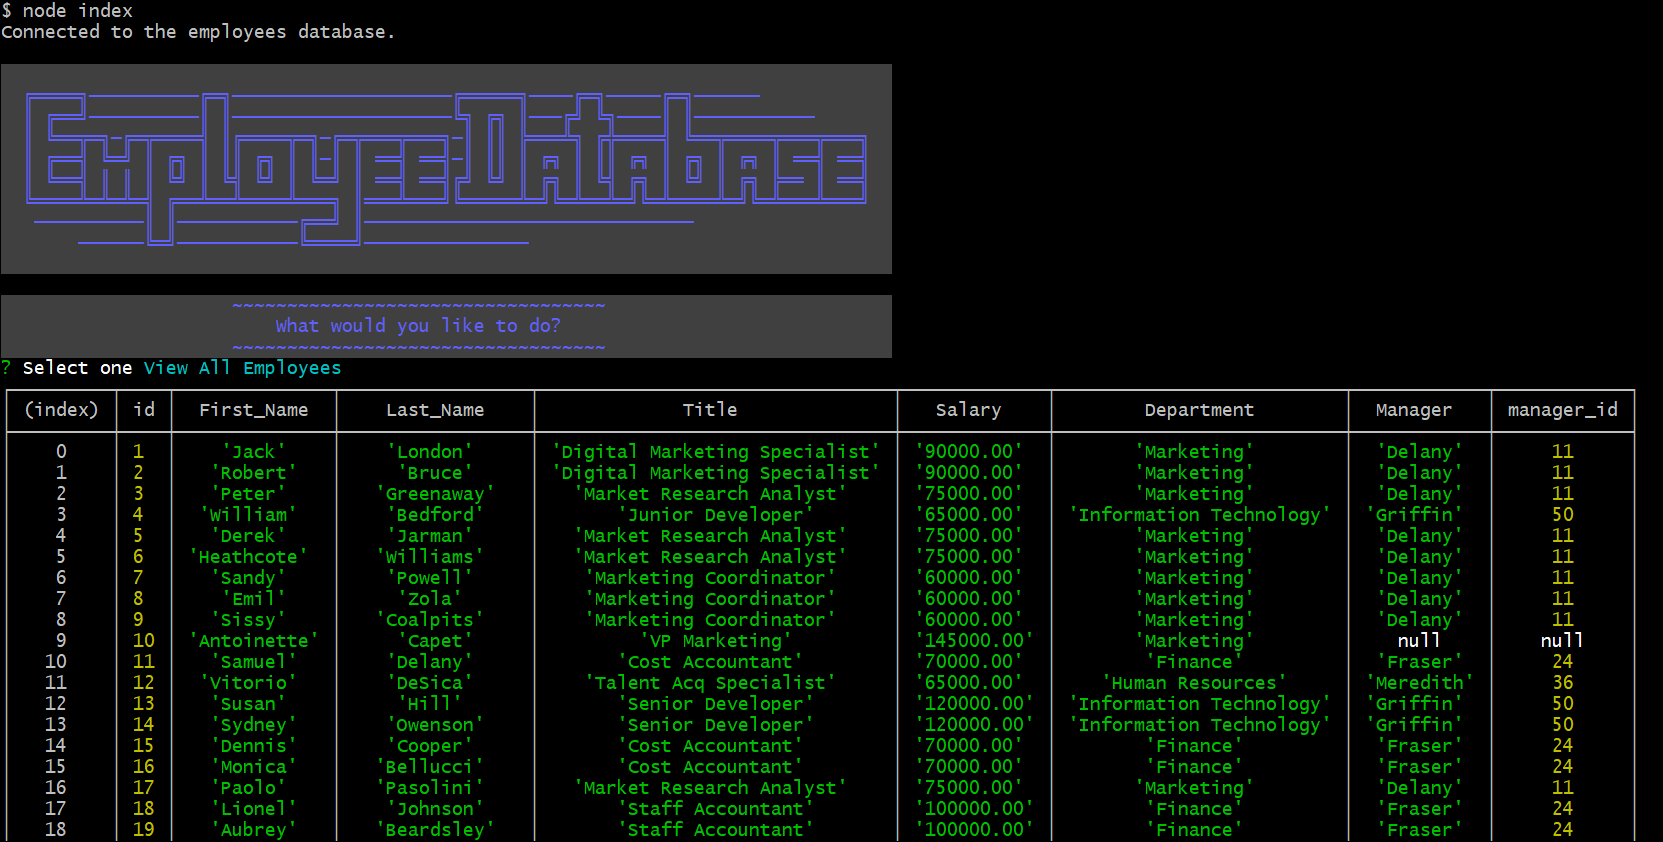
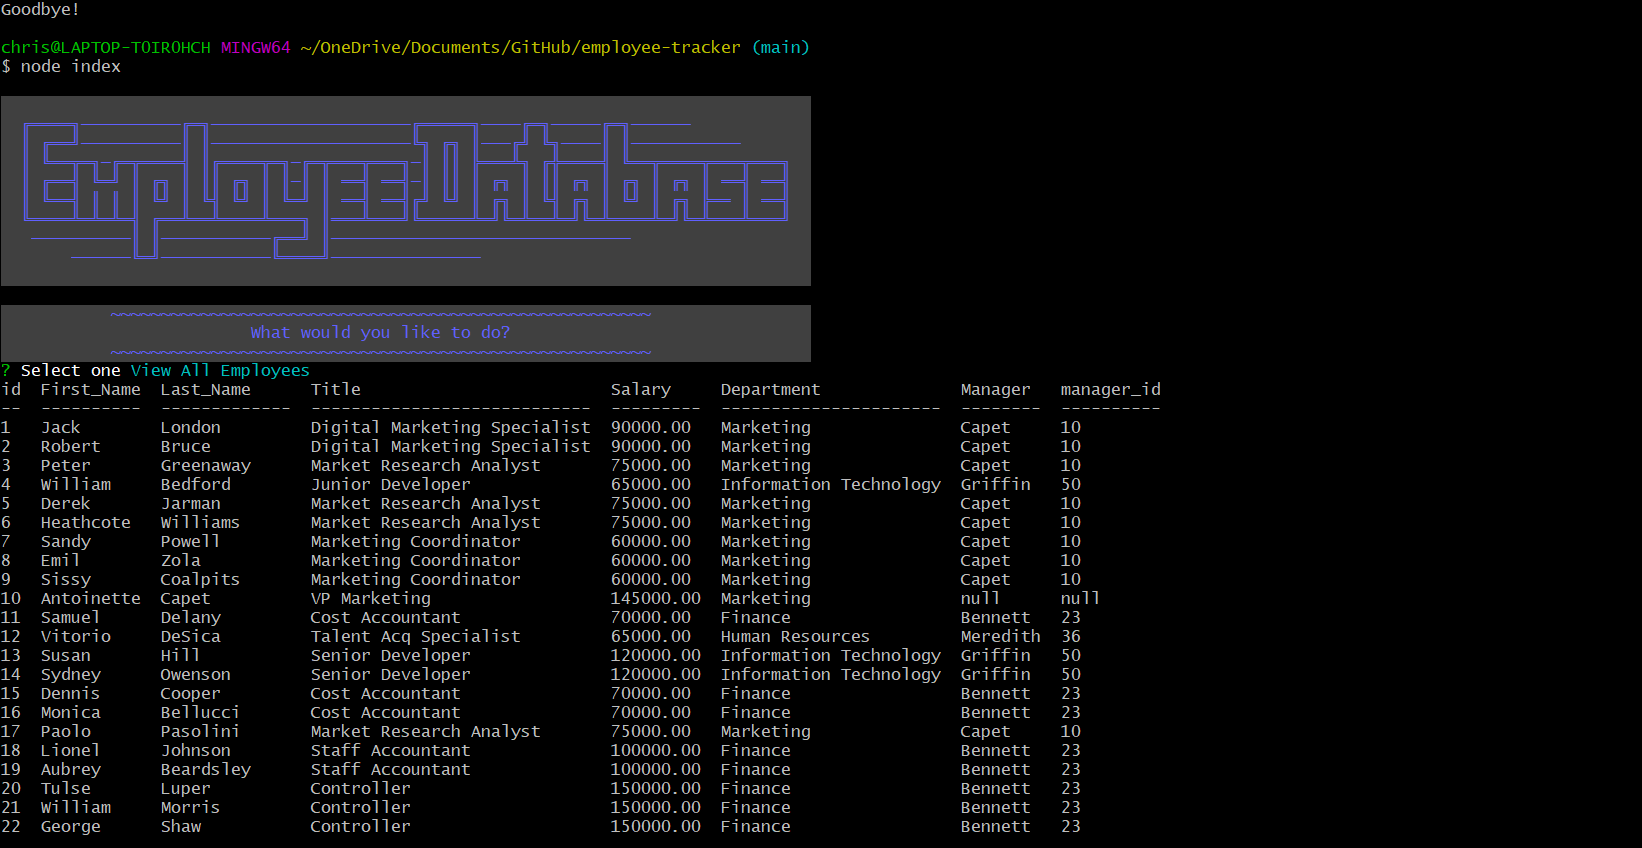
refactoring, minor tweaks to broken code

Changed region(s): [[0.0, 0.0, 0.9939, 1.0]]

diff --git a/index.js b/index.js
@@ -2,6 +2,7 @@ const inquirer = require("inquirer");
 const clc = require("cli-color");
 const Database = require("./lib/Database");
 const process = require("process");
+const cTable = require("console.table");
 
 //this sits outside of a function so that it only gets called at the beginning
 console.log(
@@ -15,9 +16,10 @@ console.log(
   ╚════╩═╩═╩═╣ ╔══╩══╩════╩═══╗ ║═══╩═══╝╚═════╩═╝╚═╩══╩═╝╚═╩════╩═╝╚═╩═══╩═══╝  
    ──────────║ ║───────────╔══╝ ║──────────────────────────────                  
        ──────╚═╝───────────╚════╝───────────────                                 
-                                                                                 `));
+                                                                                 `)
+);
 
-//I implementend a timeout so that the call to the menu isn't immediate; I think it provides a better user experience. The idea was 
+//I implementend a timeout so that the call to the menu isn't immediate; I think it provides a better user experience. The idea was
 const sleep = (ms = 1000) => new Promise((r) => setTimeout(r, ms));
 
 const init = async () => {
@@ -25,7 +27,8 @@ const init = async () => {
 		clc.blueBright.bgBlackBright(`
            ~~~~~~~~~~~~~~~~~~~~~~~~~~~~~~~~~~~~~~~~~~~~~~~~~~~~~~                
                          What would you like to do?                              
-           ~~~~~~~~~~~~~~~~~~~~~~~~~~~~~~~~~~~~~~~~~~~~~~~~~~~~~~                `));
+           ~~~~~~~~~~~~~~~~~~~~~~~~~~~~~~~~~~~~~~~~~~~~~~~~~~~~~~                `)
+	);
 	const res = await inquirer.prompt({
 		type: "list",
 		name: "options",
@@ -39,7 +42,7 @@ const init = async () => {
 			"Add a Department",
 			"Add a Role",
 			"Add an Employee",
-			"Update Employee Role",
+			"Update Employee Role and/or Manager",
 			"Delete Department",
 			"Delete Role",
 			"Delete Employee",
@@ -53,65 +56,71 @@ const init = async () => {
 async function redirectQuestion(param) {
 	switch (param) {
 		case "View All Departments":
-			const [department] = await Database.getTable('department');
+			const [department] = await Database.getTable("department");
 			console.table(department);
 			break;
 		case "View All Roles":
-			const [role] = await Database.getTable('roles');
+			const [role] = await Database.getTable("roles");
 			console.table(role);
 			break;
 		case "View All Employees":
-			const [employees] = await Database.getTable('employee', '');
+			const [employees] = await Database.getTable("employee", "");
 			console.table(employees);
 			break;
 		case "View All Employees by Manager":
-			const [employeesManager] = await Database.getTable('employee', 'Order by manager');
+			const [employeesManager] = await Database.getTable(
+				"employee",
+				"Order by manager"
+			);
 			console.table(employeesManager);
 			break;
 		case "View All Employees by Department":
-			const [employeesDepartment] = await Database.getTable('employee', 'Order by department');
+			const [employeesDepartment] = await Database.getTable(
+				"employee",
+				"Order by department"
+			);
 			console.table(employeesDepartment);
 			break;
 		case "Add a Department":
 			await Database.addDept();
-			const [newDept] = await Database.getTableDept();
+			const [newDept] = await Database.getTable("department");
 			console.log("New Department Added!");
 			await sleep();
 			console.table(newDept);
 			break;
 		case "Add a Role":
 			await Database.addRole();
-			const [newRole] = await Database.getTableRole();
+			const [newRole] = await Database.getTable("roles");
 			console.log("New Role Added!");
 			await sleep();
 			console.table(newRole);
 			break;
 		case "Add an Employee":
 			await Database.addEmply();
-			const [newEmploy] = await Database.getTableEmply();
+			const [newEmploy] = await Database.getTable("employee");
 			console.log("New Employee Added!");
 			await sleep();
 			console.table(newEmploy);
 			break;
 		case "Update Employee Role and/or Manager":
 			await Database.updateEmply();
-			console.log('Employee updated!')
+			console.log("Employee updated!");
 			break;
 		case "Delete Department":
-			await Database.deleteEntry('department')
-			console.log('Entry Deleted')
+			await Database.deleteEntry("department");
+			console.log("Entry Deleted");
 			break;
 		case "Delete Role":
-			await Database.deleteEntry('roles')
-			console.log('Entry Deleted')
+			await Database.deleteEntry("roles");
+			console.log("Entry Deleted");
 			break;
 		case "Delete Employee":
-			await Database.deleteEntry('employee')
-			console.log('Entry Deleted')
+			await Database.deleteEntry("employee");
+			console.log("Entry Deleted");
 			break;
 		case "Get Budget":
 			const [budget] = await Database.getBudget();
-			console.table(budget)
+			console.table(budget);
 			break;
 		case "Exit":
 			//Since this entire application leaves the connection to the database open, I've added a feature to kill the terminal process without having to hit ctrl + C
@@ -119,7 +128,8 @@ async function redirectQuestion(param) {
 			await sleep();
 			return process.exit();
 		default:
-			return console.log("An error has occured");
+			console.log("An error has occured");
+			break;
 	}
 	await sleep();
 	init();

diff --git a/lib/Database.js b/lib/Database.js
@@ -11,9 +11,9 @@ class Database {
 		} else if (table === 'roles') {
 			return db.promise().query(`SELECT
 			roles.id,
-			roles.title,
-			roles.salary,
-			department.name as department
+			roles.title AS Title,
+			roles.salary AS Salary,
+			department.name as Department
 		FROM
 			roles
 		LEFT JOIN 
@@ -107,8 +107,8 @@ class Database {
 	}
 	async addEmply() {
 		const [role] = await this.getTable('roles');
-		const roleChoices = role.map(({ id, title }) => ({
-			name: title,
+		const roleChoices = role.map(({ id, Title }) => ({
+			name: Title,
 			value: id,
 		}));
 		//Just pulls up a list of the managers by referenceing who does not have a manager. Not the cleanest solution
@@ -174,8 +174,8 @@ class Database {
 	}
 	async updateEmply() {
 		const [role] = await this.getTable('roles');
-		const roleChoices = role.map(({ id, title }) => ({
-			name: title,
+		const roleChoices = role.map(({ id, Title }) => ({
+			name: Title,
 			value: id,
 		}));
 		const [emply] = await this.getTable('employee');
@@ -211,7 +211,7 @@ class Database {
 			{
 				type: "list",
 				name: "manager",
-				message: "who is the new manager?",
+				message: "who is their new manager?",
 				choices: managerChoices,
 				when: ({ managerConfirm }) => {
 					return !managerConfirm;
@@ -220,8 +220,9 @@ class Database {
 		]);
 		await db.promise().execute(
 			`UPDATE employee
-			SET roles_id=?
-			where id=?;`,
+			SET roles_id=?,
+				manager_id=?
+			WHERE id=?;`,
 			[update.role, update.manager || null, update.employee],
 			(err, result) => {
 				if (err) {
@@ -254,7 +255,7 @@ class Database {
 		const deleteEntry = await inquirer.prompt({
 			type: "list",
 			name: "entry",
-			message: "who is the new manager?",
+			message: "What are you deleting?",
 			choices: deleteChoicesObjects,
 		});
 
@@ -273,8 +274,8 @@ class Database {
 	}
 	getBudget() {
 		return db.promise().query(`SELECT
-				department.name,
-				SUM(roles.salary) AS Salary
+				department.name AS Department,
+				SUM(roles.salary) AS Budget
 			FROM
 				employee
 			LEFT JOIN
